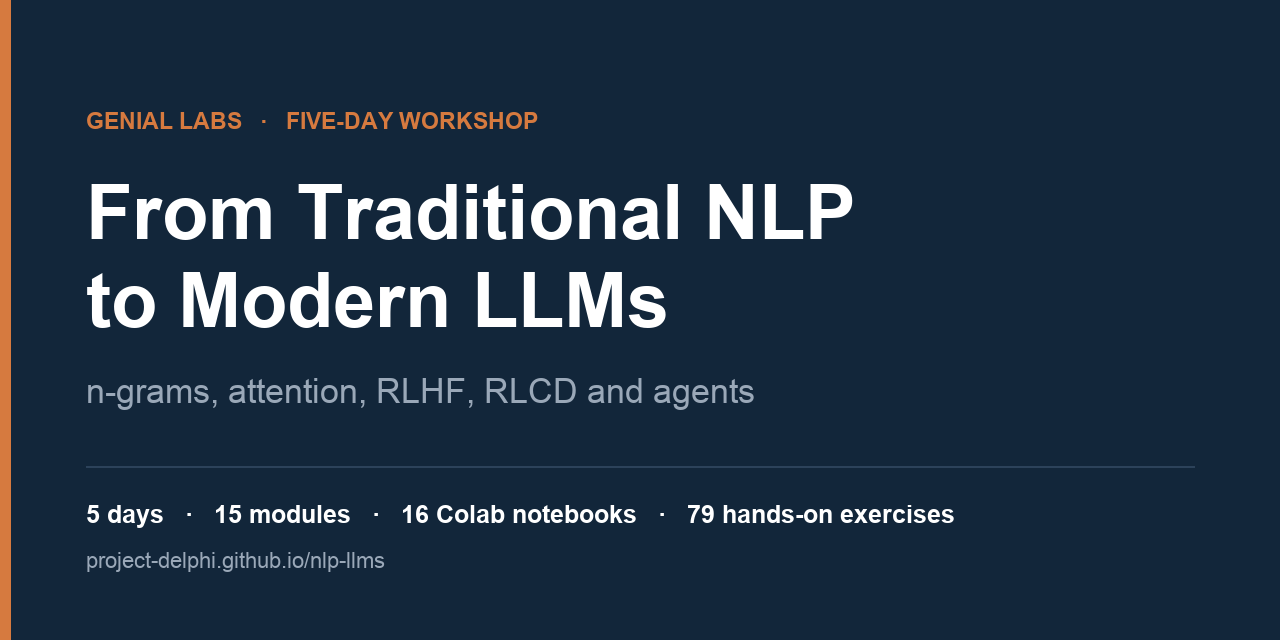
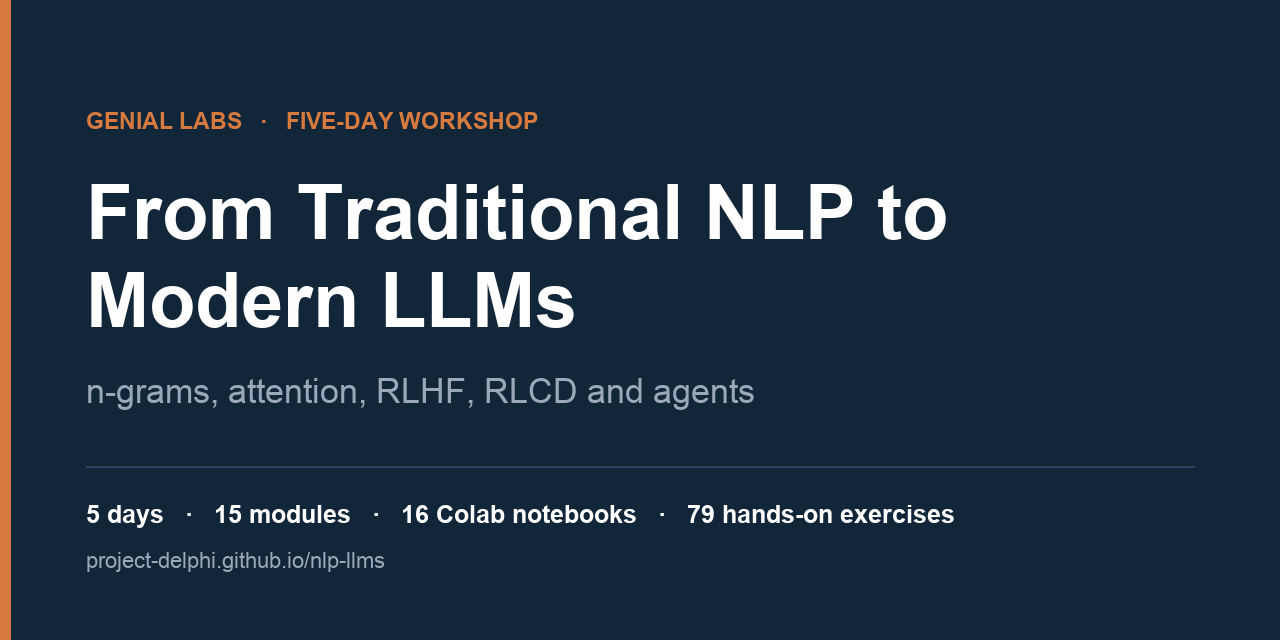
Review round 1: the lab task list reads every notebook, and the old URLs still work
- Lab 13 writes its stretch section as `#`, not `##`, so its Challenge was
  silently missing from the module page. The pattern now matches any level, and
  tests/test_lab_steps.py is new: it checks the task list against each
  notebook's own headings, so a heading style the patterns miss fails the suite
  instead of quietly dropping a task.
- "Every exercise is a `# TODO` stub ... and ends in a checkpoint" was false for
  Labs 13, 14 and 15, whose Exercise 0 says "Nothing to write" and has no
  checkpoint. The claim now scopes itself to the exercises you write.
- A part with no exercises of its own (the capstone's "Part C") rendered as a
  bolded row with nothing under it, carrying the group rule.
- Links to lectures/<slug>.html and assessments.html were shared before the
  rename, so all 17 pages carry an alias and Quarto writes the redirects.
- A declared notebook that is missing left the page including a file the
  generator had deleted, which fails the render; it now writes the same
  "Lab in preparation" note the module card shows.
- make_social_preview.py takes its title and "five-day" from _variables.yml,
  wraps the title to the card, and finds DejaVu or Liberation on Linux and WSL.
- teach.qmd: "an knowledge check".

Changed region(s): [[0.0625, 0.4062, 0.5312, 0.5312], [0.6875, 0.2812, 0.75, 0.375]]

diff --git a/tests/test_lab_steps.py b/tests/test_lab_steps.py
@@ -1,0 +1,106 @@
+"""scripts/lab_steps.py reads every lab's task list from its notebook.
+
+The generated `_includes/lab-NN.md` is only as good as these patterns: a heading style
+the patterns miss drops a task or a whole challenge from the module page silently, and
+the drift gate cannot see it because the generator agrees with itself.
+"""
+
+from __future__ import annotations
+
+import json
+import re
+import sys
+import unittest
+from pathlib import Path
+
+import yaml
+
+ROOT = Path(__file__).resolve().parent.parent
+sys.path.insert(0, str(ROOT / "scripts"))
+
+import lab_steps as L  # noqa: E402
+
+V = yaml.safe_load((ROOT / "_variables.yml").read_text(encoding="utf-8"))
+LABS = [
+    m
+    for m in sorted(V["modules"].values(), key=lambda x: x["n"])
+    if m.get("notebook", True) and (ROOT / "notebooks" / f"{m['slug']}.ipynb").exists()
+]
+
+
+def markdown_headings(slug: str) -> list[str]:
+    cells = json.loads((ROOT / "notebooks" / f"{slug}.ipynb").read_text(encoding="utf-8"))["cells"]
+    return [
+        line
+        for c in cells
+        if c["cell_type"] == "markdown"
+        for line in "".join(c["source"]).splitlines()
+        if line.startswith("#")
+    ]
+
+
+class Rows(unittest.TestCase):
+    def test_every_lab_has_parts_and_tasks(self):
+        for m in LABS:
+            found = L.rows(m["slug"])
+            kinds = {r["kind"] for r in found}
+            self.assertIn("part", kinds, m["slug"])
+            self.assertIn("task", kinds, m["slug"])
+
+    def test_every_stretch_section_becomes_a_challenge(self):
+        # Lab 13 writes its stretch as `#`, the others as `##`: both must be found.
+        for m in LABS:
+            has = any(
+                re.match(r"^#+\s+Stretch\s*\(optional\)", line)
+                for line in markdown_headings(m["slug"])
+            )
+            got = L.challenge(L.rows(m["slug"])) is not None
+            self.assertEqual(has, got, m["slug"])
+
+    def test_every_exercise_heading_becomes_a_task(self):
+        for m in LABS:
+            headings = [
+                line for line in markdown_headings(m["slug"]) if re.match(r"^#+\s+Exercise\s", line)
+            ]
+            tasks = [r for r in L.rows(m["slug"]) if r["label"].startswith("Exercise")]
+            self.assertEqual(len(headings), len(tasks), m["slug"])
+
+    def test_stated_minutes_are_read(self):
+        for m in LABS:
+            for r in L.rows(m["slug"]):
+                if r["kind"] == "task" and r["minutes"] is not None:
+                    self.assertGreater(r["minutes"], 0, (m["slug"], r["label"]))
+
+
+class Table(unittest.TestCase):
+    def test_no_part_row_without_tasks_under_it(self):
+        # Lab 15's "Part C · Evaluate and share" has no exercise of its own.
+        for m in LABS:
+            rows = L.table(L.rows(m["slug"])).splitlines()[2:]
+            for i, line in enumerate(rows):
+                if line.startswith("| **Part"):
+                    rest = rows[i + 1 :]
+                    following = next((r for r in rest if not r.startswith("| **Part")), None)
+                    self.assertIsNotNone(following, (m["slug"], line))
+
+    def test_the_challenge_is_not_in_the_table(self):
+        for m in LABS:
+            self.assertNotIn("Challenge", L.table(L.rows(m["slug"])), m["slug"])
+
+
+class Generated(unittest.TestCase):
+    def test_each_lab_include_matches_its_notebook(self):
+        for m in LABS:
+            include = (ROOT / "_includes" / f"lab-{m['n']:02d}.md").read_text(encoding="utf-8")
+            for r in L.rows(m["slug"]):
+                if r["kind"] == "task":
+                    self.assertIn(f"{r['label']} · {r['title']}", include, m["slug"])
+
+    def test_each_module_page_includes_its_lab(self):
+        for m in LABS:
+            page = (ROOT / "modules" / f"{m['slug']}.qmd").read_text(encoding="utf-8")
+            self.assertIn(f"/_includes/lab-{m['n']:02d}.md", page, m["slug"])
+
+
+if __name__ == "__main__":
+    unittest.main()

diff --git a/scripts/make_social_preview.py b/scripts/make_social_preview.py
@@ -31,11 +31,24 @@ ACCENT = (214, 122, 63)
 RULE = (44, 66, 90)
 
 # The site ships Inter and Source Serif 4 as woff2, which Pillow cannot read; these are
-# the nearest faces installed on macOS. The first that loads wins.
+# the nearest faces installed on macOS, then on Debian/Ubuntu (WSL included). The first
+# that loads wins.
 FACES = {
-    "bold": ["/System/Library/Fonts/Supplemental/Arial Bold.ttf", "/Library/Fonts/Arial Bold.ttf"],
-    "regular": ["/System/Library/Fonts/Supplemental/Arial.ttf", "/Library/Fonts/Arial.ttf"],
+    "bold": [
+        "/System/Library/Fonts/Supplemental/Arial Bold.ttf",
+        "/Library/Fonts/Arial Bold.ttf",
+        "/usr/share/fonts/truetype/dejavu/DejaVuSans-Bold.ttf",
+        "/usr/share/fonts/truetype/liberation/LiberationSans-Bold.ttf",
+    ],
+    "regular": [
+        "/System/Library/Fonts/Supplemental/Arial.ttf",
+        "/Library/Fonts/Arial.ttf",
+        "/usr/share/fonts/truetype/dejavu/DejaVuSans.ttf",
+        "/usr/share/fonts/truetype/liberation/LiberationSans-Regular.ttf",
+    ],
 }
+# For the eyebrow: "A FIVE-DAY WORKSHOP", from workshop.days.
+WORDS = {3: "THREE", 4: "FOUR", 5: "FIVE", 6: "SIX", 7: "SEVEN", 10: "TEN"}
 
 
 def font(weight: str, size: int) -> ImageFont.FreeTypeFont:
@@ -43,6 +56,18 @@ def font(weight: str, size: int) -> ImageFont.FreeTypeFont:
         if Path(path).exists():
             return ImageFont.truetype(path, size)
     raise SystemExit(f"no {weight} font found; add one to FACES")
+
+
+def wrap(text: str, face: ImageFont.FreeTypeFont, width: int) -> list[str]:
+    """Greedy word wrap to `width` pixels, so a retitled workshop still fits the card."""
+    lines: list[str] = []
+    for word in text.split():
+        trial = f"{lines[-1]} {word}" if lines else word
+        if lines and face.getbbox(trial)[2] <= width:
+            lines[-1] = trial
+        else:
+            lines.append(word)
+    return lines
 
 
 def facts(v: dict) -> str:
@@ -64,13 +89,20 @@ def main() -> None:
     d.rectangle([0, 0, 10, H], fill=ACCENT)
 
     x = 86
+    span = WORDS.get(w["days"], str(w["days"]))
     d.text(
-        (x, 108), f"{w['org'].upper()}   ·   FIVE-DAY WORKSHOP", font=font("bold", 23), fill=ACCENT
+        (x, 108),
+        f"{w['org'].upper()}   ·   {span}-DAY WORKSHOP",
+        font=font("bold", 23),
+        fill=ACCENT,
     )
 
-    # The title wraps by hand: two lines, broken where the sense breaks.
-    d.text((x, 170), "From Traditional NLP", font=font("bold", 76), fill=INK)
-    d.text((x, 258), "to Modern LLMs", font=font("bold", 76), fill=INK)
+    # The title is workshop.title, wrapped to the card and bottom-aligned on the rule
+    # below it, so a longer title grows upward into the space the eyebrow leaves.
+    title = font("bold", 76)
+    lines = wrap(w["title"], title, W - 2 * x)
+    for i, line in enumerate(lines):
+        d.text((x, 346 - 88 * (len(lines) - i)), line, font=title, fill=INK)
 
     d.text((x, 372), w["subtitle"], font=font("regular", 34), fill=MUTED)
 

diff --git a/scripts/gen_tables.py b/scripts/gen_tables.py
@@ -803,6 +803,9 @@ def module_block(v: dict, key: str, m: dict) -> str:
     return "\n".join(lines)
 
 
+LAB_PENDING = "## In the lab {#in-the-lab}\n\n[Lab in preparation]{.lab-note}"
+
+
 def lab_block(v: dict, key: str, m: dict) -> str:
     """'In the lab': the notebook's own parts and exercises, with the link that opens it."""
     found = lab_steps.rows(m["slug"])
@@ -818,8 +821,8 @@ def lab_block(v: dict, key: str, m: dict) -> str:
     )
     lead = (
         f"{exercises} exercises in {parts} parts. The notebook budgets {minutes} minutes for"
-        f" them; {budget}. Every exercise is a `# TODO` stub with a folded solution beneath"
-        " it, and ends in a checkpoint that passes or fails."
+        f" them; {budget}. Each exercise you write is a `# TODO` stub with a folded solution"
+        " beneath it and a checkpoint that passes or fails."
     )
     out = [
         "## In the lab {#in-the-lab}",
@@ -1119,10 +1122,13 @@ def main() -> None:
     for key, m in modules_in_order(v):
         write(INCLUDES / f"module-{m['n']:02d}.md", module_block(v, key, m))
         lab = INCLUDES / f"lab-{m['n']:02d}.md"
-        if has_notebook(m) and notebook_exists(m["slug"]) and lab_steps.rows(m["slug"]):
+        if not has_notebook(m):
+            # No lab at all (pre-work): the page never includes the file.
+            lab.unlink(missing_ok=True)
+        elif notebook_exists(m["slug"]) and lab_steps.rows(m["slug"]):
             write(lab, lab_block(v, key, m))
         else:
-            lab.unlink(missing_ok=True)
+            write(lab, LAB_PENDING)
         briefing = live_plan.read(m["slug"])
         live, pace = INCLUDES / f"live-{m['n']:02d}.md", INCLUDES / f"pace-{m['n']:02d}.md"
         if briefing["front"].get("live"):

diff --git a/scripts/lab_steps.py b/scripts/lab_steps.py
@@ -23,8 +23,8 @@ NOTEBOOKS = ROOT / "notebooks"
 PART = re.compile(r"^#+\s+Part\s+(\S+)\s+·\s+(.+?)\s*$")
 # `## Exercise 3 · The chat template (6 minutes)`; `## Step 0 · ... (3 minutes)`
 TASK = re.compile(r"^#+\s+(Exercise|Step)\s+(\d+)\s+·\s+(.+?)(?:\s*\((\d+)\s*minutes?\))?\s*$")
-# `## Stretch (optional) · BM25`, and the bare `## Stretch (optional)`
-STRETCH = re.compile(r"^##\s+Stretch\s*\(optional\)(?:\s*·\s*(.+?))?\s*$")
+# `## Stretch (optional) · BM25`, the bare `## Stretch (optional)`, and Lab 13's `#`.
+STRETCH = re.compile(r"^#+\s+Stretch\s*\(optional\)(?:\s*·\s*(.+?))?\s*$")
 
 # `### Stretch A · A verification node`: one of several challenges under the stretch.
 SUBSTRETCH = re.compile(r"^###\s+Stretch\s+([A-Z])\s+·\s+(.+?)\s*$")
@@ -104,12 +104,24 @@ def totals(found: list[dict]) -> tuple[int, int, int]:
     )
 
 
+def _has_tasks(found: list[dict], i: int) -> bool:
+    """Whether the part at `i` has any task of its own before the next part."""
+    for r in found[i + 1 :]:
+        if r["kind"] == "part":
+            return False
+        if r["kind"] == "task":
+            return True
+    return False
+
+
 def table(found: list[dict]) -> str:
     """The core path as a two-column table: a part is a bold row spanning its tasks.
     The challenge is not in it; challenge() states it on its own."""
     lines = ["| Task | Time |", "|---|---|"]
-    for r in found:
+    for i, r in enumerate(found):
         if r["kind"].startswith("challenge"):
+            continue
+        if r["kind"] == "part" and not _has_tasks(found, i):
             continue
         if r["kind"] == "task":
             time = f"{r['minutes']} min" if r["minutes"] else "—"

diff --git a/_includes/lab-13.md b/_includes/lab-13.md
@@ -4,7 +4,7 @@
 
 [Open the lab in Colab](https://colab.research.google.com/github/project-delphi/nlp-llms/blob/main/notebooks/13-rag.ipynb){.btn-colab}
 
-6 exercises in 2 parts. The notebook budgets 48 minutes for them; the lab slot is 55 minutes. Every exercise is a `# TODO` stub with a folded solution beneath it, and ends in a checkpoint that passes or fails.
+6 exercises in 2 parts. The notebook budgets 48 minutes for them; the lab slot is 55 minutes. Each exercise you write is a `# TODO` stub with a folded solution beneath it and a checkpoint that passes or fails.
 
 ::: {.lab-steps}
 | Task | Time |
@@ -17,6 +17,12 @@
 | **Part B · Reranking and answers** | |
 | Exercise 4 · Rerank the candidates | 9 min |
 | Exercise 5 · Faithfulness | 10 min |
+:::
+
+::: {.challenge}
+### Challenge · Hybrid retrieval with BM25 {#challenge}
+
+Optional, for anyone who finishes the core path early: the notebook's stretch section, after the last checkpoint.
 :::
 
 **When you are done.** Runtime → Disconnect and delete runtime releases the machine; your keys stay in Colab Secrets for the next lab.

diff --git a/_includes/lab-15.md b/_includes/lab-15.md
@@ -4,7 +4,7 @@
 
 [Open the lab in Colab](https://colab.research.google.com/github/project-delphi/nlp-llms/blob/main/notebooks/15-capstone.ipynb){.btn-colab}
 
-3 exercises in 3 parts. The notebook budgets 7 minutes for them; the rest of the 240 minutes is your own pair work. Every exercise is a `# TODO` stub with a folded solution beneath it, and ends in a checkpoint that passes or fails.
+3 exercises in 3 parts. The notebook budgets 7 minutes for them; the rest of the 240 minutes is your own pair work. Each exercise you write is a `# TODO` stub with a folded solution beneath it and a checkpoint that passes or fails.
 
 ::: {.lab-steps}
 | Task | Time |
@@ -14,7 +14,6 @@
 | Exercise 1 · The verifier's rule | 5 min |
 | **Part B · One change, measured on `dev`** | |
 | Exercise 2 · The hypothesis card (before your first modified run) | — |
-| **Part C · Evaluate and share** | |
 :::
 
 **When you are done.** Runtime → Disconnect and delete runtime releases the machine; your keys stay in Colab Secrets for the next lab.

diff --git a/_includes/lab-03.md b/_includes/lab-03.md
@@ -4,7 +4,7 @@
 
 [Open the lab in Colab](https://colab.research.google.com/github/project-delphi/nlp-llms/blob/main/notebooks/03-sequence-models.ipynb){.btn-colab}
 
-5 exercises in 5 parts. The notebook budgets 37 minutes for them; the lab slot is 50 minutes. Every exercise is a `# TODO` stub with a folded solution beneath it, and ends in a checkpoint that passes or fails.
+5 exercises in 5 parts. The notebook budgets 37 minutes for them; the lab slot is 50 minutes. Each exercise you write is a `# TODO` stub with a folded solution beneath it and a checkpoint that passes or fails.
 
 ::: {.lab-steps}
 | Task | Time |
@@ -13,8 +13,6 @@
 | Exercise 1 · An RNN cell by hand | 8 min |
 | Exercise 2 · Loss, perplexity and bits per character | 6 min |
 | Exercise 3 · Vanishing and exploding gradients | 9 min |
-| **Part A · How far back does the gradient reach?** | |
-| **Part B · Gradient clipping** | |
 | **Part B · The LSTM** | |
 | Exercise 4 · The LSTM cell | 6 min |
 | **Part C · Generating text** | |

diff --git a/_includes/lab-05.md b/_includes/lab-05.md
@@ -4,7 +4,7 @@
 
 [Open the lab in Colab](https://colab.research.google.com/github/project-delphi/nlp-llms/blob/main/notebooks/05-transformer-from-scratch.ipynb){.btn-colab}
 
-6 exercises in 2 parts. The notebook budgets 50 minutes for them; the lab slot is 55 minutes. Every exercise is a `# TODO` stub with a folded solution beneath it, and ends in a checkpoint that passes or fails.
+6 exercises in 2 parts. The notebook budgets 50 minutes for them; the lab slot is 55 minutes. Each exercise you write is a `# TODO` stub with a folded solution beneath it and a checkpoint that passes or fails.
 
 ::: {.lab-steps}
 | Task | Time |

diff --git a/_includes/lab-06.md b/_includes/lab-06.md
@@ -4,7 +4,7 @@
 
 [Open the lab in Colab](https://colab.research.google.com/github/project-delphi/nlp-llms/blob/main/notebooks/06-pretraining-huggingface.ipynb){.btn-colab}
 
-5 exercises in 3 parts. The notebook budgets 47 minutes for them; the lab slot is 55 minutes. Every exercise is a `# TODO` stub with a folded solution beneath it, and ends in a checkpoint that passes or fails.
+5 exercises in 3 parts. The notebook budgets 47 minutes for them; the lab slot is 55 minutes. Each exercise you write is a `# TODO` stub with a folded solution beneath it and a checkpoint that passes or fails.
 
 ::: {.lab-steps}
 | Task | Time |

diff --git a/_includes/lab-09.md b/_includes/lab-09.md
@@ -4,7 +4,7 @@
 
 [Open the lab in Colab](https://colab.research.google.com/github/project-delphi/nlp-llms/blob/main/notebooks/09-preference-learning.ipynb){.btn-colab}
 
-6 exercises in 2 parts. The notebook budgets 50 minutes for them; the lab slot is 55 minutes. Every exercise is a `# TODO` stub with a folded solution beneath it, and ends in a checkpoint that passes or fails.
+6 exercises in 2 parts. The notebook budgets 50 minutes for them; the lab slot is 55 minutes. Each exercise you write is a `# TODO` stub with a folded solution beneath it and a checkpoint that passes or fails.
 
 ::: {.lab-steps}
 | Task | Time |

diff --git a/_includes/lab-04.md b/_includes/lab-04.md
@@ -4,7 +4,7 @@
 
 [Open the lab in Colab](https://colab.research.google.com/github/project-delphi/nlp-llms/blob/main/notebooks/04-seq2seq-attention.ipynb){.btn-colab}
 
-5 exercises in 3 parts. The notebook budgets 47 minutes for them; the lab slot is 50 minutes. Every exercise is a `# TODO` stub with a folded solution beneath it, and ends in a checkpoint that passes or fails.
+5 exercises in 3 parts. The notebook budgets 47 minutes for them; the lab slot is 50 minutes. Each exercise you write is a `# TODO` stub with a folded solution beneath it and a checkpoint that passes or fails.
 
 ::: {.lab-steps}
 | Task | Time |

diff --git a/_includes/lab-07.md b/_includes/lab-07.md
@@ -4,7 +4,7 @@
 
 [Open the lab in Colab](https://colab.research.google.com/github/project-delphi/nlp-llms/blob/main/notebooks/07-finetuning-lora.ipynb){.btn-colab}
 
-6 exercises in 4 parts. The notebook budgets 50 minutes for them; the lab slot is 55 minutes. Every exercise is a `# TODO` stub with a folded solution beneath it, and ends in a checkpoint that passes or fails.
+6 exercises in 4 parts. The notebook budgets 50 minutes for them; the lab slot is 55 minutes. Each exercise you write is a `# TODO` stub with a folded solution beneath it and a checkpoint that passes or fails.
 
 ::: {.lab-steps}
 | Task | Time |
